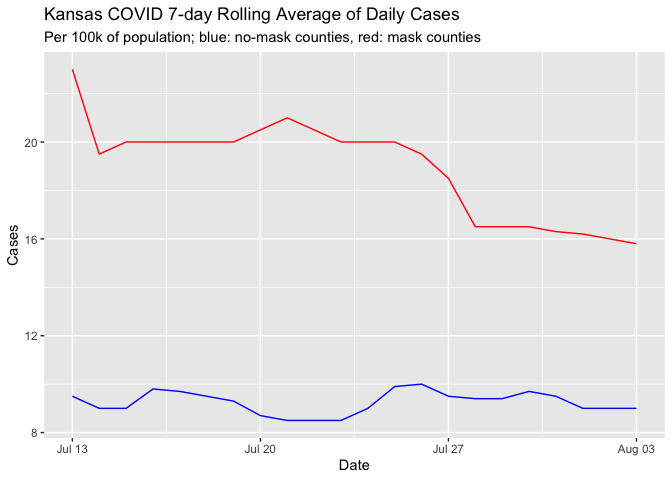
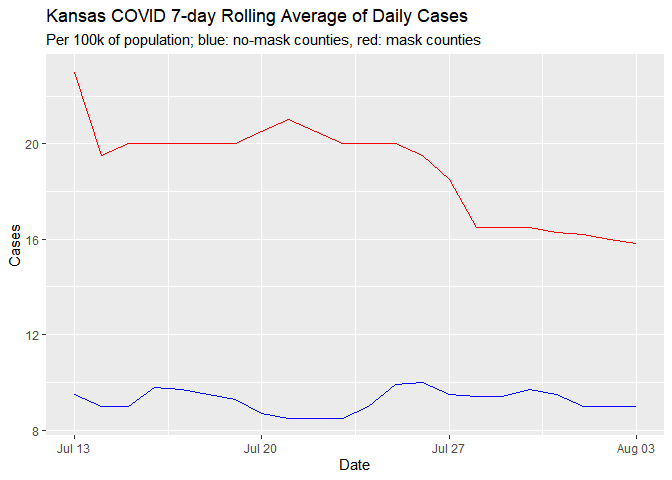
Exercise 3

diff --git a/lab-06.md b/lab-06.md
@@ -58,7 +58,10 @@ ggplot(aes(x = Date))+
 
 ### Exercise 3
 
-*Add your narrative here.*
+*The scale is a lot clearer to read and much easier to compare between
+the no mask and mask data. As well the graph is now clearly labeled
+which makes understanding the data quicker. As well reducing the number
+of dates shown illustrates the change in the data over time better. *
 
 ### Exercise 4
 
